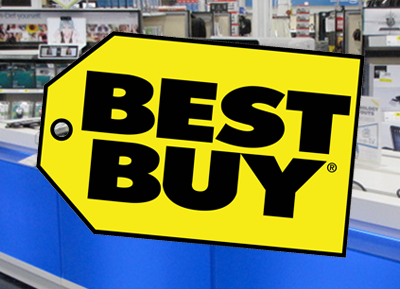
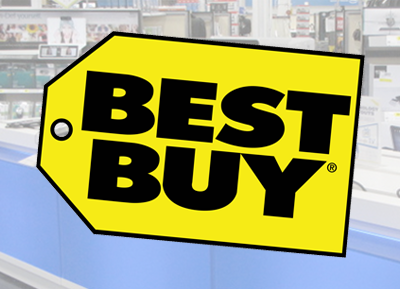
Updated pictures and associations.

diff --git a/public_html/index.php b/public_html/index.php
@@ -170,11 +170,11 @@
 									<i class="fa fa-plus fa-3x"></i>
 								</div>
 							</div>
-							<img src="images/portfolio/startup-framework.png" class="img-responsive" alt="">
+							<img src="images/portfolio/bestbuy.png" class="img-responsive" alt="">
 						</a>
 						<div class="portfolio-caption">
-							<h4>Startup Framework</h4>
-							<p class="text-muted">Website Design</p>
+							<h4>Best Buy - Connected Store Pilot</h4>
+							<p class="text-muted">Graphic Design</p>
 						</div>
 					</div>
 					<div class="col-md-4 col-sm-6 portfolio-item">
@@ -363,9 +363,9 @@
 						<div class="row">
 							<div class="col-lg-8 col-lg-offset-2">
 								<div class="modal-body">
-									<h2>Project Heading</h2>
+									<h2>Best Buy - Connected Store</h2>
 									<p class="item-intro text-muted">Lorem ipsum dolor sit amet consectetur.</p>
-									<img class="img-responsive img-centered" src="images/portfolio/startup-framework-preview.png" alt="">
+									<img class="img-responsive img-centered" src="images/portfolio/bestbuy-preview.png" alt="">
 									<p><a href="http://designmodo.com/startup/?u=787">Startup Framework</a> is a website builder for professionals. Startup Framework contains components and complex blocks (PSD+HTML Bootstrap themes and templates) which can easily be integrated into almost any design. All of these components are made in the same style, and can easily be integrated into projects, allowing you to create hundreds of solutions for your future projects.</p>
 									<p>You can preview Startup Framework <a href="http://designmodo.com/startup/?u=787">here</a>.</p>
 									<button type="button" class="btn btn-primary" data-dismiss="modal"><i class="fa fa-times"></i> Close Project</button>
